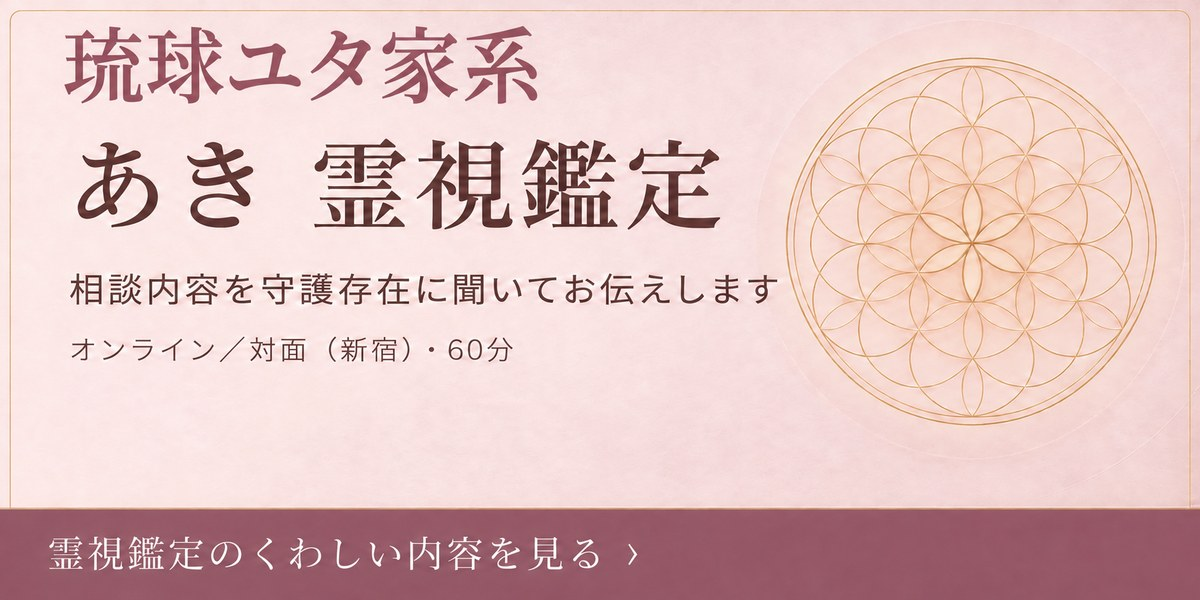
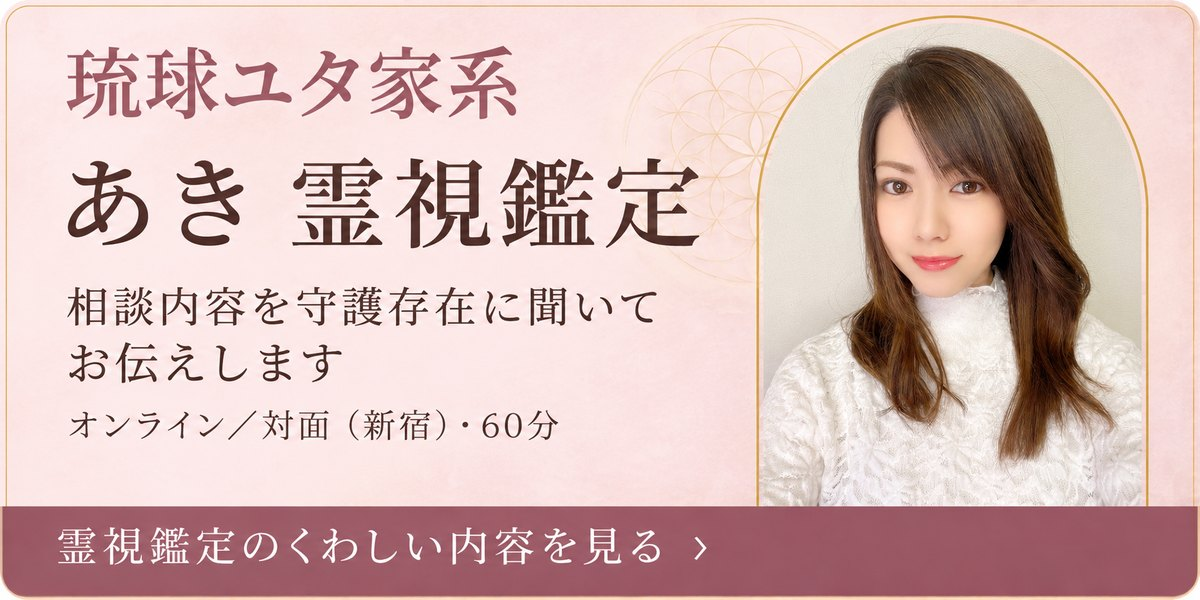
あき霊視鑑定のバナーを新デザインに差し替え
Claude-Session: https://claude.ai/code/session_01WnJ4nNfDWH1XpE6rkfFMSB

diff --git a/index.html b/index.html
@@ -169,7 +169,7 @@ footer{text-align:center;font-size:12px;color:#9a8ca8;padding:36px 18px 30px}
 
   <h2>あわせて</h2>
   <a class="site" href="https://motonory-a.github.io/aki-reishi/">
-    <picture><source type="image/webp" srcset="img/aki-wide-banner-800.webp 800w, img/aki-wide-banner-1200.webp 1200w" sizes="(max-width:760px) 100vw, 724px"><img src="img/aki-wide-banner-1200.jpg" srcset="img/aki-wide-banner-800.jpg 800w, img/aki-wide-banner-1200.jpg 1200w" sizes="(max-width:760px) 100vw, 724px" width="1200" height="600" loading="lazy" alt="琉球ユタ家系　あき　霊視鑑定"></picture>
+    <picture><source type="image/webp" srcset="img/aki-wide-banner-800.webp 800w, img/aki-wide-banner-1200.webp 1200w" sizes="(max-width:760px) 100vw, 724px"><img src="img/aki-wide-banner-1200.jpg" srcset="img/aki-wide-banner-800.jpg 800w, img/aki-wide-banner-1200.jpg 1200w" sizes="(max-width:760px) 100vw, 724px" width="1200" height="600" loading="lazy" alt="琉球ユタ家系　あき　霊視鑑定　相談内容を守護存在に聞いてお伝えします　オンライン／対面（新宿）・60分"></picture>
   </a>
   <ul class="links">
     <li><a href="https://kojigen.base.shop/">高次元SHOP（天然石ブレスレット）</a></li>
